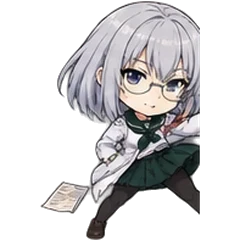
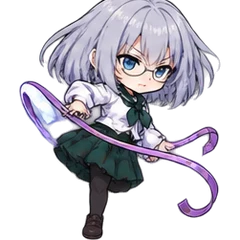
カード絵18枚を高品質版に差し替え、落とした時のカットインをアカネの全身ちびに
Claude-Session: https://claude.ai/code/session_01JnN3fTbS77cmdTYBwGBinC

diff --git a/index.html b/index.html
@@ -167,6 +167,7 @@ html.embed .title .logo{top:16px}
 .cutin{position:absolute;left:-10%;right:-10%;height:86px;z-index:25;pointer-events:none;transform:rotate(-7deg);
   background:linear-gradient(90deg,#7a2533,#ff7a3d);box-shadow:0 0 0 4px #f6efe2,0 0 0 7px #000;display:flex;align-items:center;overflow:hidden;animation:cut .7s ease-out forwards}
 .cutin img{height:150%;margin-left:14%;align-self:flex-start;animation:cutf .7s ease-out forwards}
+.cutin img[src*=cut_]{height:190%;margin-top:-10px;filter:drop-shadow(0 4px 0 rgba(0,0,0,.35))}
 .cutin span{font-family:var(--title);font-size:30px;color:#fff;-webkit-text-stroke:2px #000;paint-order:stroke;margin-left:10px;white-space:nowrap}
 @keyframes cut{0%{clip-path:inset(0 100% 0 0)}18%{clip-path:inset(0 0 0 0)}80%{opacity:1}100%{opacity:0;clip-path:inset(0 0 0 0)}}
 @keyframes cutf{from{translate:-60px 0}25%{translate:0 0}}
@@ -833,7 +834,7 @@ async function fall(u){
     if(!u.pl){praise('落ちた!');ach('boss_pit')}
     await hit(u,dmg,null,{big:1});return;
   }
-  u.alive=false;run.stats.falls++;sfx('fall');removeEl(u,'fall');cutin('落としたっ！','laugh');say('akane',line('fall'),1600,'laugh');ach('fall1');if(run.stats.falls>=5)ach('falls5');
+  u.alive=false;run.stats.falls++;sfx('fall');removeEl(u,'fall');cutin('落としたっ！','img/cut_akane.webp');say('akane',line('fall'),1600,'laugh');ach('fall1');if(run.stats.falls>=5)ach('falls5');
   if(has('jizo')){heal(3)}
   await sleep(330);render();
 }
